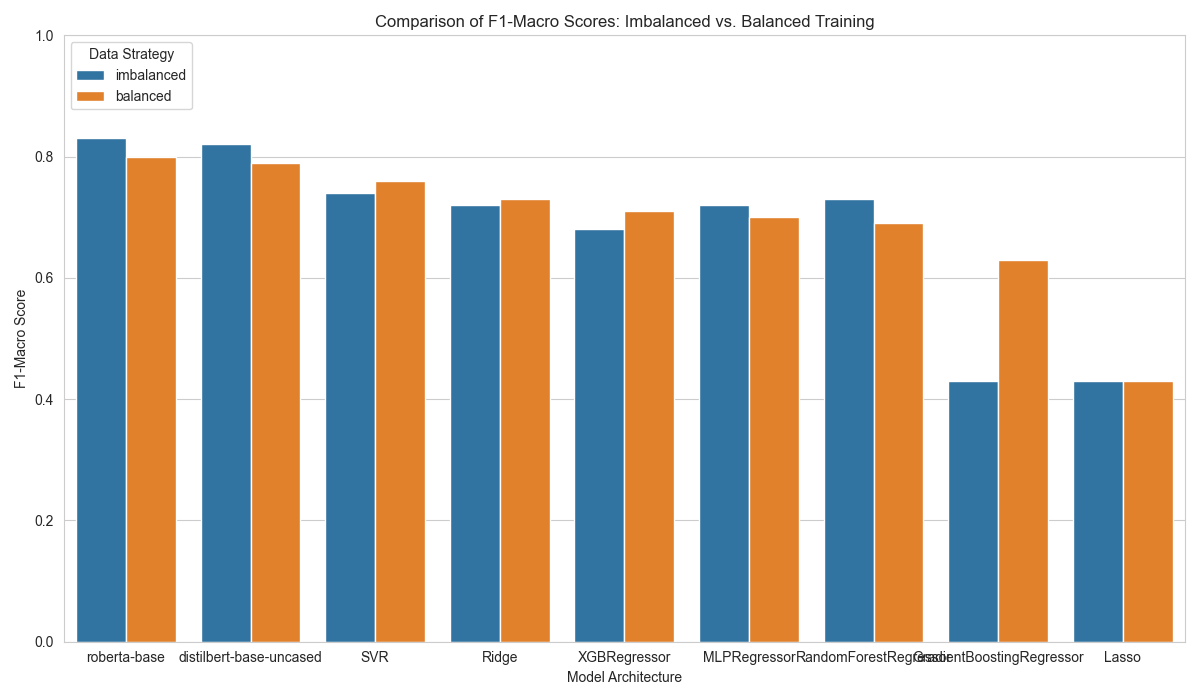
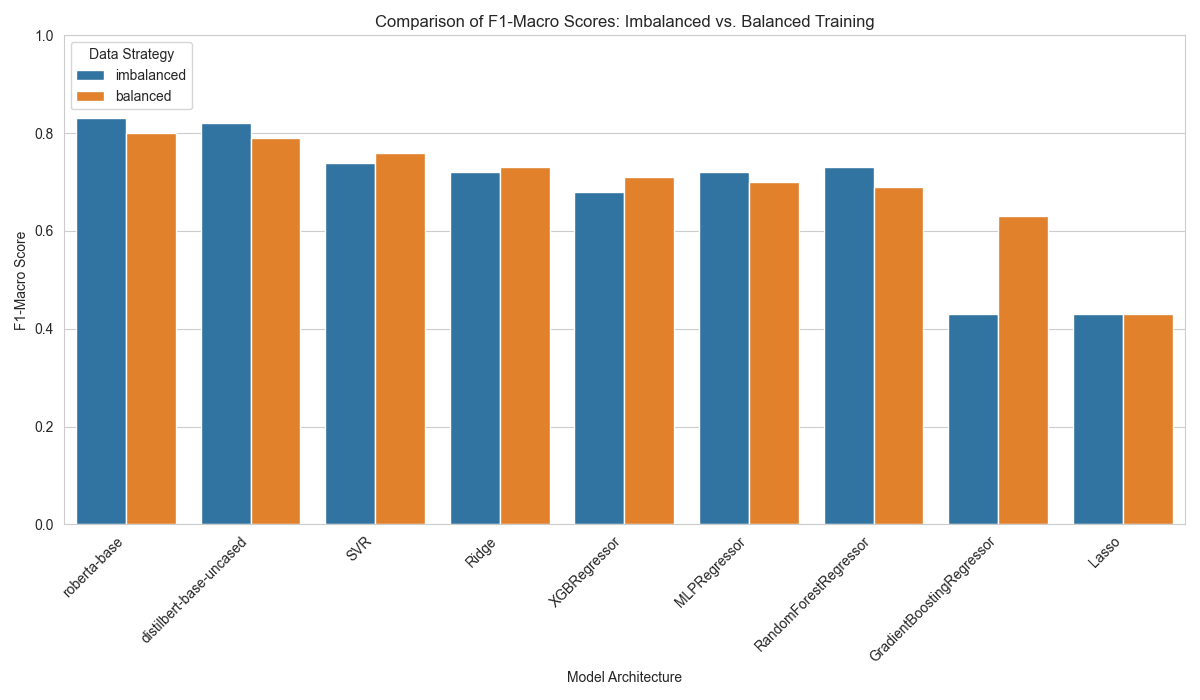
upgrade plots

diff --git a/plot_results.py b/plot_results.py
@@ -22,7 +22,29 @@ plt.title('Comparison of F1-Macro Scores: Imbalanced vs. Balanced Training')
 plt.ylabel('F1-Macro Score')
 plt.xlabel('Model Architecture')
 plt.ylim(0, 1.0)
+plt.xticks(rotation=45, ha='right')
 plt.legend(title='Data Strategy', loc='upper left')
 plt.tight_layout()
 plt.savefig('f1_macro_comparison.png')
 plt.show()
+
+def plot_per_class(df, strategy_name, filename):
+    class_cols = ["f1_clickbait", "f1_no_clickbait"]
+    long_df = df.melt(id_vars='model_name', value_vars=class_cols,
+                      var_name='class', value_name='f1')
+    long_df['class'] = long_df['class'].str.replace('f1_', '', regex=False)
+
+    plt.figure(figsize=(14, 7))
+    sns.barplot(data=long_df, x='model_name', y='f1', hue='class', order=order)
+    plt.title(f'Per-Class F1 Scores ({strategy_name} Training)')
+    plt.ylabel('F1 Score')
+    plt.xlabel('Model Architecture')
+    plt.ylim(0, 1.0)
+    plt.xticks(rotation=45, ha='right')
+    plt.legend(title='Class', loc='upper left', bbox_to_anchor=(1.0, 1.0))
+    plt.tight_layout()
+    plt.savefig(filename)
+    plt.show()
+
+plot_per_class(results_df, 'Imbalanced', 'f1_per_class_imbalanced.png')
+plot_per_class(balanced_results_df, 'Balanced', 'f1_per_class_balanced.png')

diff --git a/README.md b/README.md
@@ -40,6 +40,14 @@ Since the dataset is imbalanced, we will aim for the highest possible macro f1-s
 
 ## Results
 
-After running the experiments, we see that the transformers outperformed the rest of models, although only by a small margin. Perhaps a bit unexpectedly, *Support Vector Regressor* trained on the balanced dataset achieved the highest macro f1 score on test data among the remaining models, outperforming even more "modern models". Also, training on balanced dataset generally increased model quality, with the exception of *MLP Regressor*, *Random Forest Regressor*, and the transformers. Interestingly, the transformers seemingly benefited from more training data, despite the imbalance. Instead of overfitting, **both** their per-class scores improved.
+After running the experiments, we see that the transformers outperformed the rest of models, although only by a small margin. Perhaps a bit unexpectedly, *Support Vector Regressor* trained on the balanced dataset achieved the highest macro f1 score on test data among the remaining models, outperforming even more "modern models".
+
+Lasso, and the default gradient boosting regressor both severely underperformed on this task, performing only the majority class on imbalanced dataset.
+
+Training on balanced dataset generally increased model quality, with the exception of *MLP Regressor*, *Random Forest Regressor*, and the transformers. Interestingly, the transformers seemingly benefited from more training data, despite the imbalance. Instead of overfitting on the majority class, **both** their per-class scores improved.
 
 ![Macro f1 score comparison](f1_macro_comparison.png)
+
+![F1 per class imbalanced](f1_per_class_imbalanced.png)
+
+![F1 per class balanced](f1_per_class_balanced.png)
